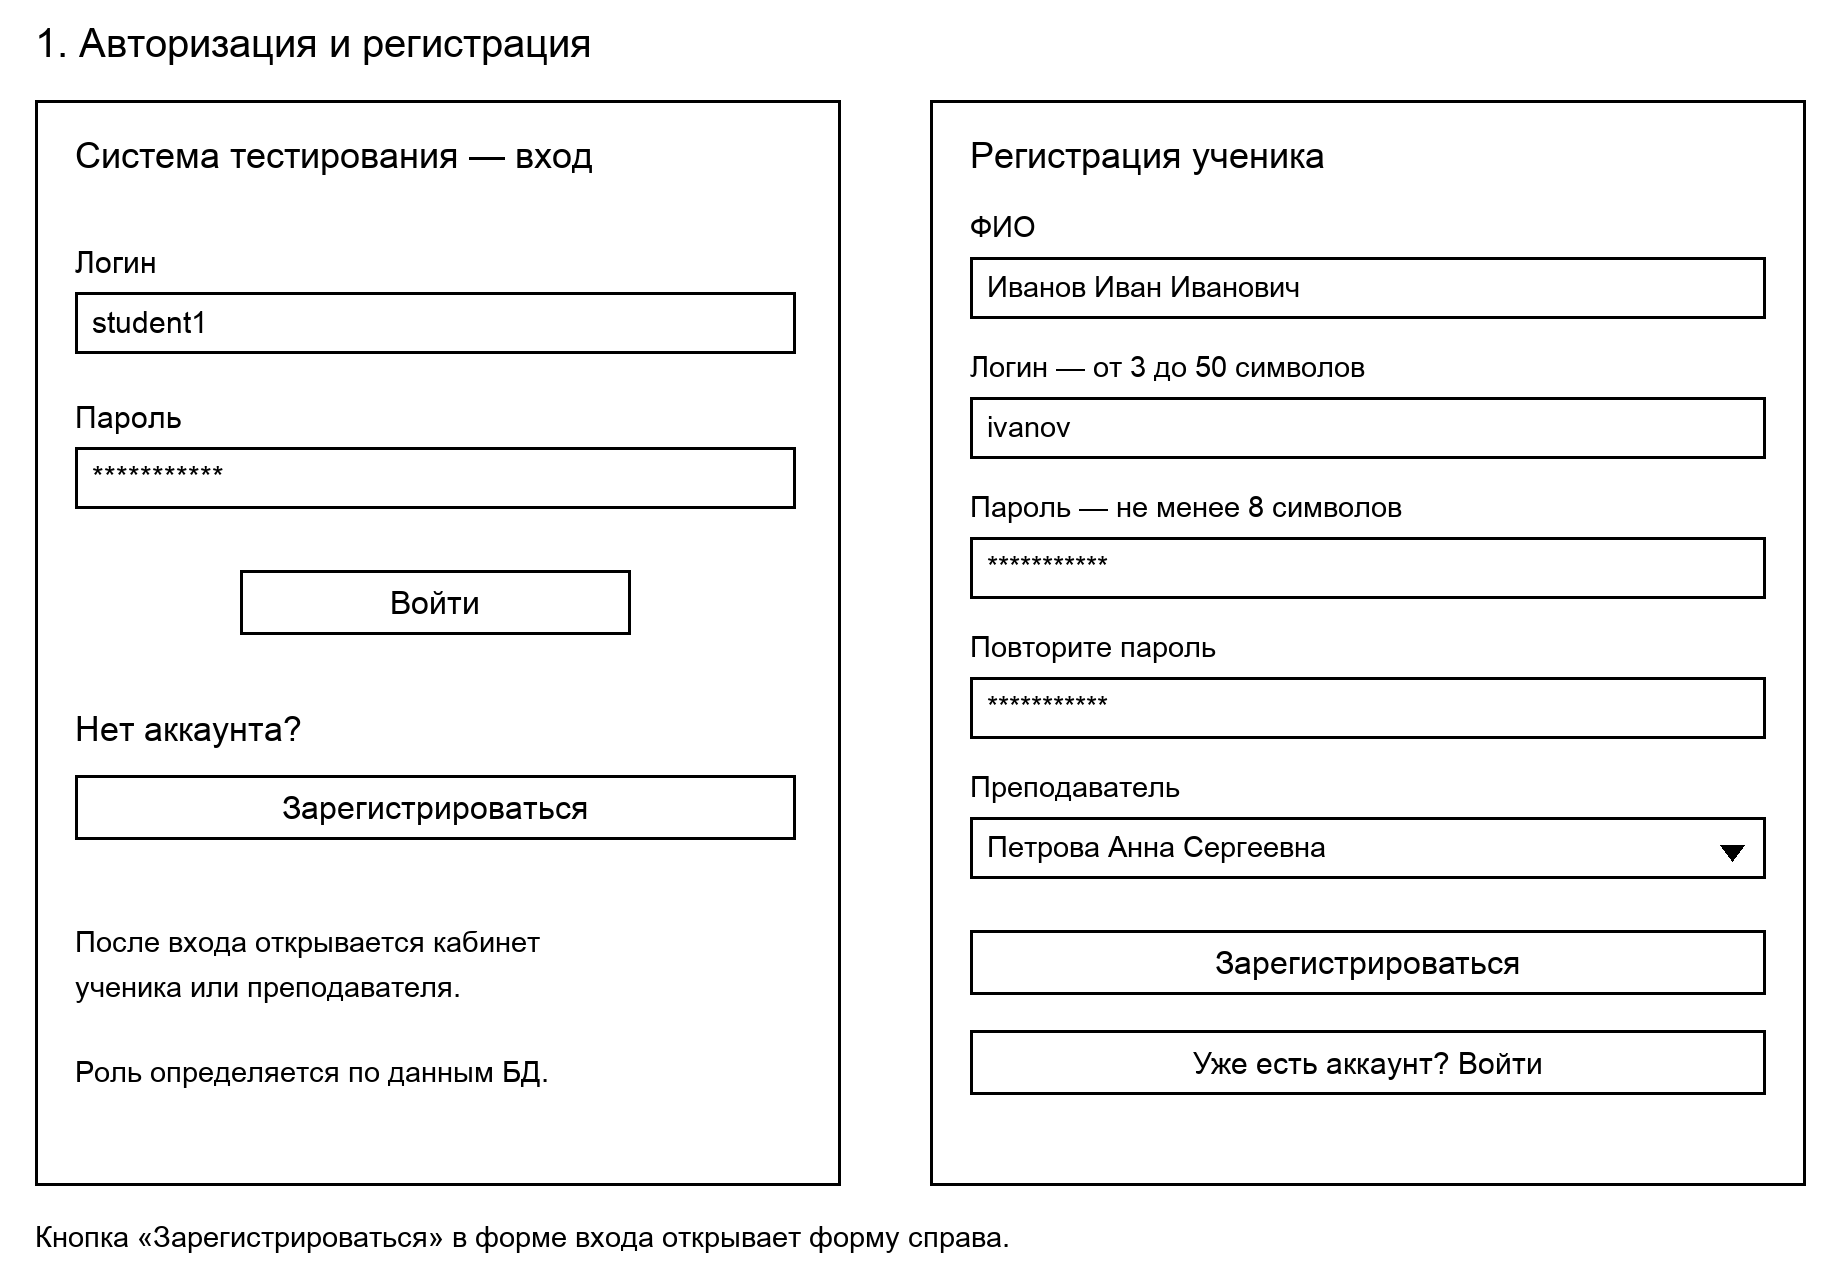
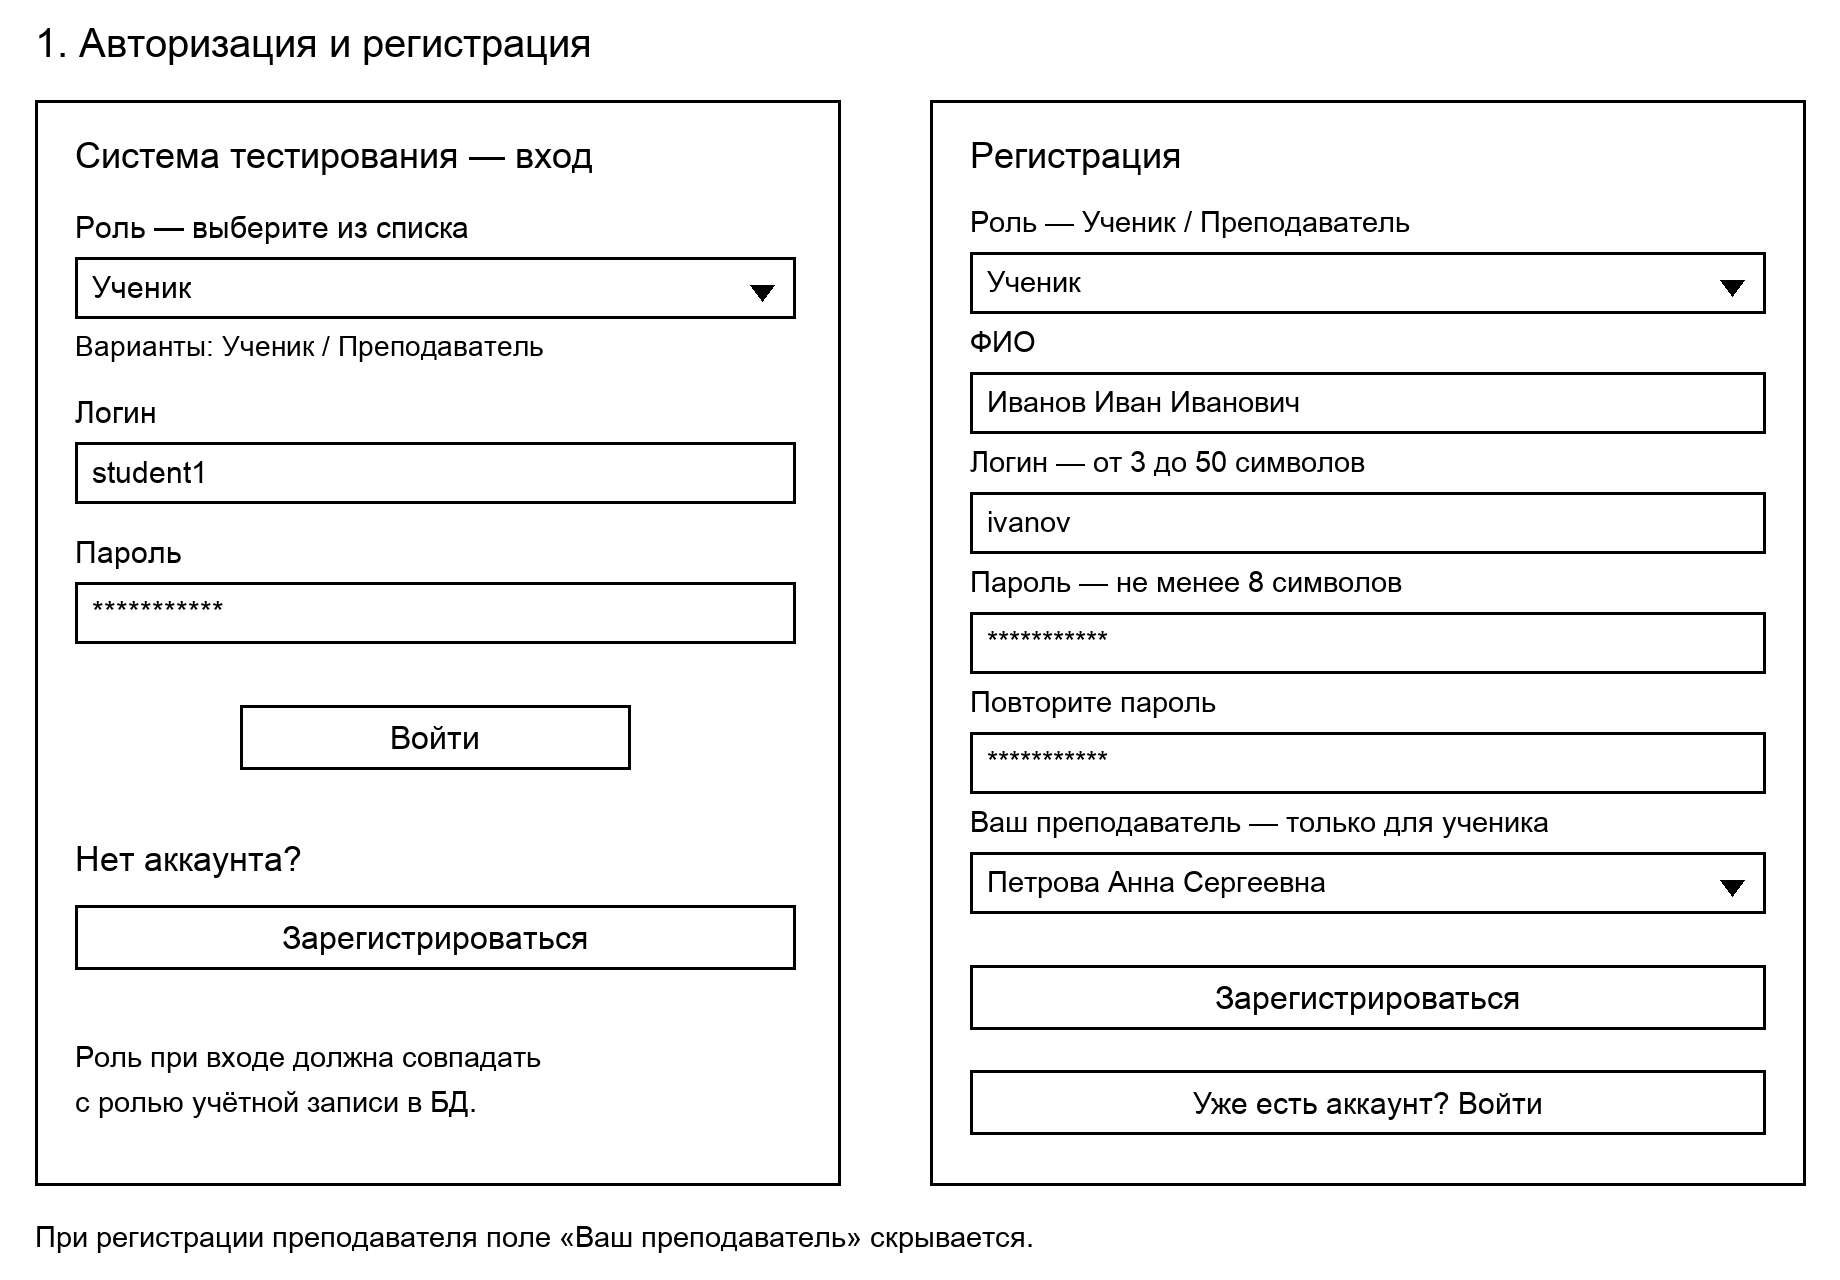
Добавить выбор роли ученика и преподавателя во вход и регистрацию

diff --git a/README.md b/README.md
@@ -1,6 +1,6 @@
 # Практическое задание «Система тестирования учащихся»
 
-**Разработайте приложение на Python с графическим интерфейсом Tkinter и базой данных PostgreSQL.** В приложении должны работать авторизация, регистрация учеников, тест из пяти вопросов, редактор вопросов и просмотр успеваемости.
+**Разработайте приложение на Python с графическим интерфейсом Tkinter и базой данных PostgreSQL.** В приложении должны работать авторизация и регистрация с выбором роли, тест из пяти вопросов, редактор вопросов и просмотр успеваемости.
 
 В системе две роли: **ученик** и **преподаватель**. Предмет тестирования можно выбрать самостоятельно. В схемах приведён пример по основам SQL.
 
@@ -8,30 +8,32 @@
 
 ![Схема окна авторизации и регистрации](images/01_auth_registration.png)
 
-При запуске покажите форму входа. Под кнопкой «Войти» разместите надпись **«Нет аккаунта?»** и кнопку **«Зарегистрироваться»**. По нажатию открывается форма регистрации ученика: в отдельном окне либо на другой вкладке.
+При запуске покажите форму входа. Под кнопкой «Войти» разместите надпись **«Нет аккаунта?»** и кнопку **«Зарегистрироваться»**. По нажатию открывается форма регистрации: в отдельном окне либо на другой вкладке.
 
 ### Вход
 
-1. Пользователь вводит логин и пароль, затем нажимает **«Войти»**.
+1. Пользователь выбирает роль **«Ученик»** или **«Преподаватель»** из выпадающего списка, вводит логин и пароль, затем нажимает **«Войти»**.
 2. Приложение проверяет данные по БД.
 3. После успешного входа открывается кабинет, соответствующий роли пользователя.
 4. При неверных данных появляется сообщение «Неверный логин или пароль».
 
-Роль определяется по учётной записи в БД. Выбирать роль при входе не требуется.
+В поле **«Роль»** должны быть только два значения: **«Ученик»** и **«Преподаватель»**. Приложение сверяет выбранную роль с ролью учётной записи в БД. Если роль не совпадает, вход запрещается и выводится понятное предупреждение. Выбор преподавателя в списке ролей не даёт ученику доступ к кабинету преподавателя.
 
-### Регистрация ученика
+### Регистрация с выбором роли
 
-В форме должны быть поля «ФИО», «Логин», «Пароль», «Повторите пароль», список преподавателей и кнопка **«Зарегистрироваться»**.
+В форме должны быть выпадающий список **«Роль: Ученик / Преподаватель»**, поля «ФИО», «Логин», «Пароль», «Повторите пароль» и кнопка **«Зарегистрироваться»**.
 
 Добавьте кнопку **«Уже есть аккаунт? Войти»**, которая возвращает к форме входа.
 
 - ФИО обязательно для заполнения.
 - Логин — от 3 до 50 символов; повторяющиеся логины запрещены. Регистр букв при проверке логина не учитывается.
 - Пароль — не менее 8 символов; оба введённых пароля должны совпадать.
-- Ученик выбирает преподавателя из списка, загруженного из БД.
-- После регистрации учётная запись сохраняется с ролью «ученик», затем пользователь может войти.
+- При выборе роли **«Ученик»** дополнительно покажите поле **«Ваш преподаватель»** со списком из БД. Выбор преподавателя обязателен.
+- При выборе роли **«Преподаватель»** поле «Ваш преподаватель» скрывается и не требуется для регистрации.
+- После регистрации учётная запись сохраняется с выбранной ролью. Пользователь возвращается к входу; в форме входа автоматически выбирается та же роль.
+- Новому преподавателю создайте собственный тест из пяти начальных вопросов с четырьмя вариантами и одним правильным ответом на каждый. Вопросы можно сразу изменить в редакторе. Его список учеников сначала пуст.
 
-Учётную запись преподавателя создайте заранее при начальном заполнении БД. Открытая регистрация преподавателей не требуется. Пароли храните в виде хешей с солью.
+Для демонстрации заранее создайте преподавателя и учеников; также обеспечьте регистрацию обеих ролей через интерфейс. Пароли храните в виде хешей с солью.
 
 ## 2. Второе окно — кабинет преподавателя и редактор вопросов
 
@@ -130,7 +132,7 @@
 
 1. Создайте БД и таблицы, настройте связи и ограничения.
 2. Добавьте преподавателя, не менее трёх учеников и пять вопросов по выбранной теме.
-3. Реализуйте вход и регистрацию ученика.
+3. Реализуйте вход и регистрацию с выбором роли «Ученик» или «Преподаватель».
 4. Создайте редактор преподавателя и проверьте сохранение изменений.
 5. Реализуйте загрузку и прохождение теста учеником.
 6. Добавьте оценивание и сохранение попыток с ответами.
@@ -139,8 +141,8 @@
 
 ## 7. Что продемонстрировать при сдаче
 
-1. Неверный пароль не позволяет войти. Правильный вход открывает кабинет нужной роли.
-2. Кнопка «Зарегистрироваться» под надписью «Нет аккаунта?» открывает форму регистрации; кнопка «Уже есть аккаунт? Войти» возвращает к входу. Регистрация создаёт ученика; повторный логин и несовпадающие пароли вызывают предупреждение.
+1. Неверный пароль или несовпадение выбранной роли с ролью в БД не позволяют войти. Правильные данные с выбранной ролью открывают соответствующий кабинет.
+2. Кнопка «Зарегистрироваться» под надписью «Нет аккаунта?» открывает форму регистрации; кнопка «Уже есть аккаунт? Войти» возвращает к входу. Регистрация создаёт ученика или преподавателя по выбору пользователя. Поле «Ваш преподаватель» видно и обязательно только для ученика. Новый преподаватель получает пять редактируемых вопросов. Повторный логин и несовпадающие пароли вызывают предупреждение.
 3. Учитель меняет вопрос и правильный вариант; после перезапуска изменения сохраняются.
 4. Ученик получает именно пять вопросов и не может завершить тест с пропусками.
 5. За пять, четыре, три и два правильных ответа выставляются оценки 5, 4, 3 и 2 соответственно.
